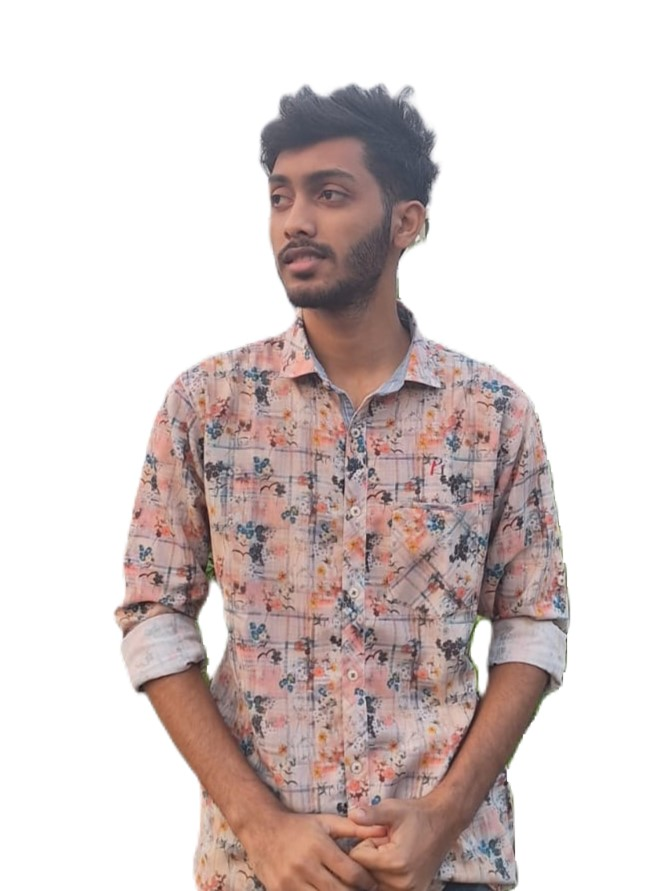
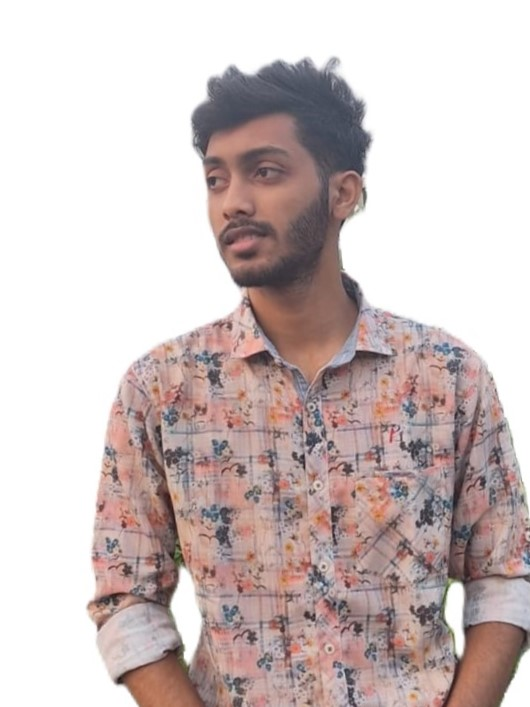
added all

diff --git a/tasin/new.html b/tasin/new.html
@@ -1,0 +1,30 @@
+<!DOCTYPE html>
+<html lang="en">
+<head>
+    <meta charset="UTF-8">
+    <meta name="viewport" content="width=device-width, initial-scale=1.0">
+    <title>try my brst</title>
+    <link rel="stylesheet" href="git.css">
+    <link rel="preconnect" href="https://fonts.googleapis.com">
+<link rel="preconnect" href="https://fonts.gstatic.com" crossorigin>
+<link href="https://fonts.googleapis.com/css2?family=Open+Sans:wght@800&display=swap" rel="stylesheet">
+</head>
+<body>
+    <header>
+<nav>
+    <h3 class="nav-title">Tah <spann class="text-primari">si</spann> n</h3>
+    <ul>
+        <li><a href="">portoflio  </a></li>
+        <li><a href="">blog     </a></li>
+        <li><a href=""> <button class="btn-primari">Hire me</button></a></li>
+    </ul>
+</nav>
+    </header>
+    <main>
+
+    </main>
+    <footer>
+
+    </footer>
+</body>
+</html>

diff --git a/tasin/git.css b/tasin/git.css
@@ -1,0 +1,40 @@
+body{
+    font-family: 'lato', sans-serif;
+    font-family: 'Open Sans', sans-serif;
+}
+nav{
+    display:flex;
+    justify-content: space-between;
+    align-items: center;
+}
+.nav-title{
+    color: #181818;
+font-size: 45px;
+
+font-weight: 800;
+
+}
+.btn-primari{
+    border-radius: 5px;
+    background: #FD6E0A;
+    border: 0;
+    font-size: 20px;
+    font-weight: 700;
+    color: white;
+    padding: 15px 30px;
+}
+.text-primari{
+    color: #FD6E0A;
+}
+nav > ul{
+    display: flex;
+    align-items: center;
+}
+nav li{
+    list-style: none;
+    margin-right: 50px;
+}
+nav a{
+    text-decoration: none;
+    color: black;
+}

diff --git a/tasin/portfolio.css b/tasin/portfolio.css
@@ -26,7 +26,7 @@ nav>ul{
     align-items: center;
 }
 nav li{
-    margin: 50px;
+    margin-right: 50px;
     list-style: none;
 }
 nav a{
@@ -44,13 +44,24 @@ padding: 15px 30px;
 }
 .header{
     background-color: #FFF8F3;
+  background-image: url(../images/header_bg.png);
+  background-repeat:no-repeat ;
+  background-position: bottom  right;
+    
 }
 .banner{
-    padding: 30px 30px 30px 150px;
+    padding: 30px 30px 0px 150px;
     display: flex;
     align-items: center;
     background: white;
 }
 .banner.profile{
+
+}
+.nati{
+    color: #181818;
+font-size: 35px;
+
+font-weight: 700;
 
 }

diff --git a/index.html b/index.html
@@ -27,7 +27,8 @@
     <button class="primary">Dawnload</button>
     <button class="primary">contact</button>
   </div>  
-  <img class="profile" src="images/rasta.jpg">
+  <img class="profile" src="images/rasta.jpg" height="400px" width="300px">
+  
 </div>
    </header> 
    <main>

diff --git a/page.html b/page.html
@@ -16,6 +16,9 @@
     <li><a href="">portfolio</a></li>
     <li><a href="">blog  </a></li>
     <li><a href=""> <button class="back">Hire me</button></a></li>
+    <h3 class="nati">
+      Hi, I  am
+    </h3>
   </ul>
 </nav>
  </header>

diff --git a/tasin/hello.css b/tasin/hello.css
@@ -28,4 +28,12 @@ nav a{
 .back{
     border-radius: 5px;
     background: orange;
+   
+}
+.nati{
+    color: #474747;
+font-size: 45px;
+
+font-weight: 600;
+
 }
